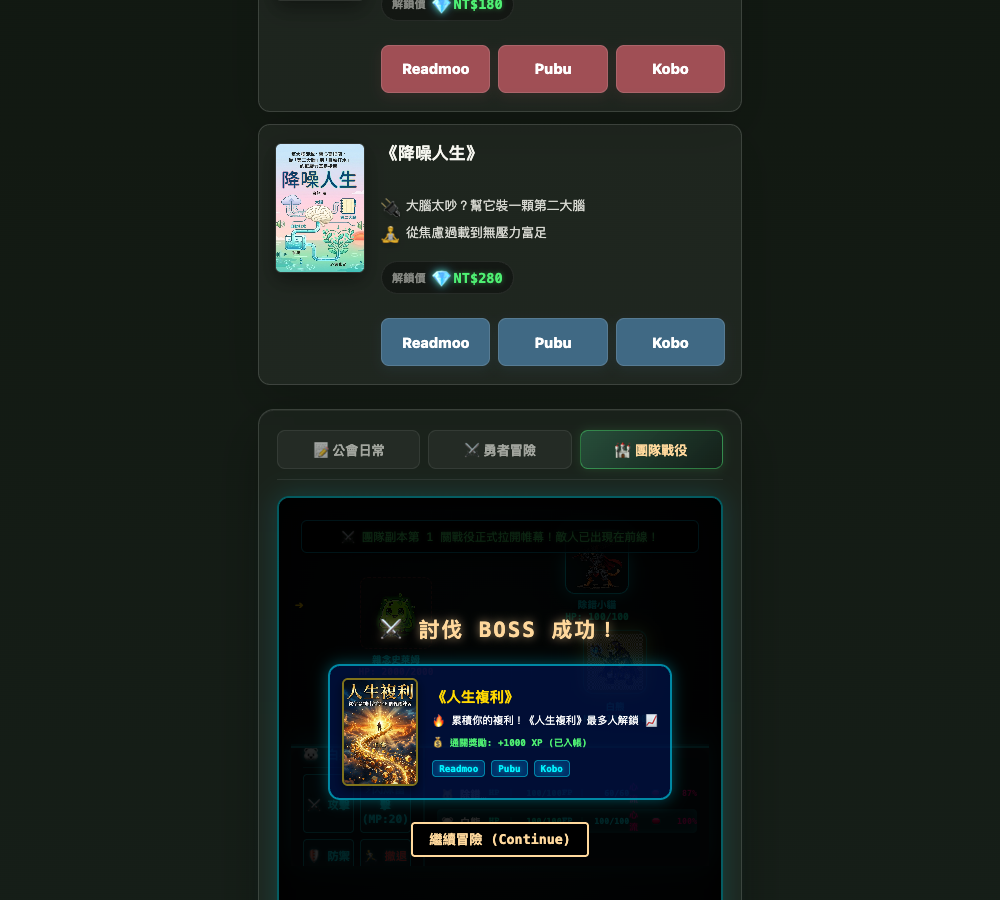
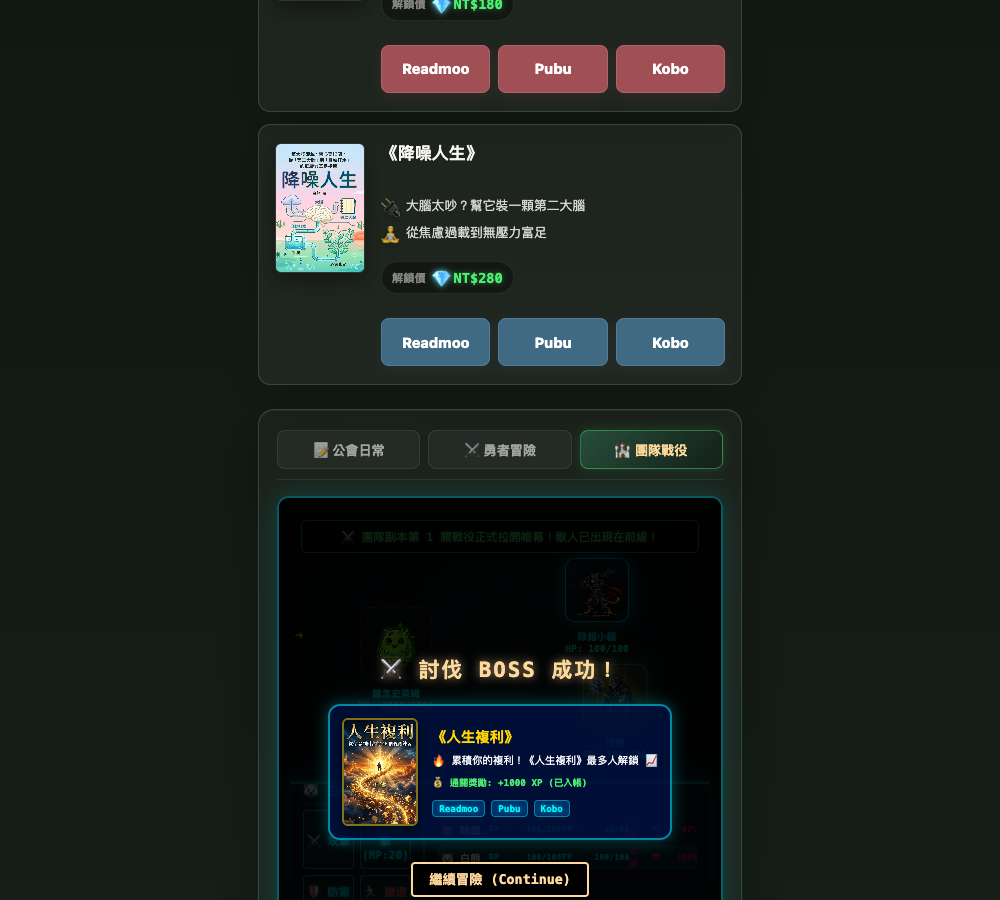
fix(flow-battle): make combat dashboard scrollable to prevent cutting off, cleanly transparent-ize bear and rabbit mage sprites, increase text spacing to prevent overlaps

Changed region(s): [[0.31, 0.6222, 0.682, 1.0]]

diff --git a/life-os-mvp/link.html b/life-os-mvp/link.html
@@ -1790,10 +1790,11 @@
       border: 2px solid rgba(0, 242, 254, 0.35);
       border-radius: 12px;
       box-shadow: 0 0 25px rgba(0, 242, 254, 0.15), inset 0 0 30px rgba(0, 0, 0, 0.95);
-      overflow: hidden;
       display: flex;
       flex-direction: column;
-      height: 480px;
+      height: auto;
+      min-height: 560px;
+      margin-bottom: 20px;
     }
 
     /* 關卡選擇樣式 */
@@ -1861,7 +1862,7 @@
       align-items: center;
       background: radial-gradient(circle at center, rgba(16, 38, 40, 0.45) 0%, rgba(5, 8, 10, 0.98) 100%), linear-gradient(rgba(0, 242, 254, 0.03) 1px, transparent 1px), linear-gradient(90deg, rgba(0, 242, 254, 0.03) 1px, transparent 1px);
       background-size: 100% 100%, 20px 20px, 20px 20px;
-      padding: 20px;
+      padding: 48px 20px 20px 20px;
       box-sizing: border-box;
       border-bottom: 2px solid rgba(0, 242, 254, 0.15);
       overflow: hidden;
@@ -2237,7 +2238,8 @@
     /* 手機窄螢幕自適應 */
     @media (max-width: 480px) {
       .team-raid-screen {
-        height: 420px;
+        height: auto;
+        min-height: 480px;
       }
       .team-raid-stage-select-grid {
         grid-template-columns: 1fr;
@@ -3572,7 +3574,7 @@
         mDiv.style.display = 'flex';
         mDiv.style.flexDirection = 'column'; // 垂直排列
         mDiv.style.alignItems = 'center'; // 水平置中
-        mDiv.style.gap = '4px';
+        mDiv.style.gap = '8px';
         mDiv.style.cursor = m.alive ? 'pointer' : 'default';
         
         const isSelected = selectedMonsterIndex === idx;
@@ -3618,7 +3620,7 @@
         hDiv.style.display = 'flex';
         hDiv.style.flexDirection = 'column'; // 垂直排列
         hDiv.style.alignItems = 'center'; // 置中
-        hDiv.style.gap = '4px';
+        hDiv.style.gap = '8px';
         
         let buffBadge = "";
         if (h.isShielded) buffBadge = `<span class="ff-buff-badge buff-shield">🛡護罩</span>`;

diff --git a/link.html b/link.html
@@ -1790,10 +1790,11 @@
       border: 2px solid rgba(0, 242, 254, 0.35);
       border-radius: 12px;
       box-shadow: 0 0 25px rgba(0, 242, 254, 0.15), inset 0 0 30px rgba(0, 0, 0, 0.95);
-      overflow: hidden;
       display: flex;
       flex-direction: column;
-      height: 480px;
+      height: auto;
+      min-height: 560px;
+      margin-bottom: 20px;
     }
 
     /* 關卡選擇樣式 */
@@ -1861,7 +1862,7 @@
       align-items: center;
       background: radial-gradient(circle at center, rgba(16, 38, 40, 0.45) 0%, rgba(5, 8, 10, 0.98) 100%), linear-gradient(rgba(0, 242, 254, 0.03) 1px, transparent 1px), linear-gradient(90deg, rgba(0, 242, 254, 0.03) 1px, transparent 1px);
       background-size: 100% 100%, 20px 20px, 20px 20px;
-      padding: 20px;
+      padding: 48px 20px 20px 20px;
       box-sizing: border-box;
       border-bottom: 2px solid rgba(0, 242, 254, 0.15);
       overflow: hidden;
@@ -2237,7 +2238,8 @@
     /* 手機窄螢幕自適應 */
     @media (max-width: 480px) {
       .team-raid-screen {
-        height: 420px;
+        height: auto;
+        min-height: 480px;
       }
       .team-raid-stage-select-grid {
         grid-template-columns: 1fr;
@@ -3572,7 +3574,7 @@
         mDiv.style.display = 'flex';
         mDiv.style.flexDirection = 'column'; // 垂直排列
         mDiv.style.alignItems = 'center'; // 水平置中
-        mDiv.style.gap = '4px';
+        mDiv.style.gap = '8px';
         mDiv.style.cursor = m.alive ? 'pointer' : 'default';
         
         const isSelected = selectedMonsterIndex === idx;
@@ -3618,7 +3620,7 @@
         hDiv.style.display = 'flex';
         hDiv.style.flexDirection = 'column'; // 垂直排列
         hDiv.style.alignItems = 'center'; // 置中
-        hDiv.style.gap = '4px';
+        hDiv.style.gap = '8px';
         
         let buffBadge = "";
         if (h.isShielded) buffBadge = `<span class="ff-buff-badge buff-shield">🛡護罩</span>`;

diff --git a/life-os-mvp/scratch/clean_sprites_pro.py b/life-os-mvp/scratch/clean_sprites_pro.py
@@ -1,0 +1,71 @@
+import os
+from PIL import Image
+
+def clean_sprite_pro(img_path, sprite_type):
+    if not os.path.exists(img_path):
+        print(f"File not found: {img_path}")
+        return
+        
+    print(f"🧹 Pro cleaning background for {sprite_type}: {img_path}")
+    img = Image.open(img_path).convert("RGBA")
+    datas = img.getdata()
+    
+    new_data = []
+    removed_count = 0
+    
+    for item in datas:
+        r, g, b, a = item[:4]
+        
+        # Keep existing transparency
+        if a < 10:
+            new_data.append((0, 0, 0, 0))
+            continue
+            
+        should_remove = False
+        
+        # 1. Bear Sage background grays: around 170-178
+        if sprite_type == 'bear':
+            is_bear_gray = (r >= 165 and r <= 182 and g >= 165 and g <= 182 and b >= 165 and b <= 182)
+            is_white = (r > 240 and g > 240 and b > 240)
+            if is_bear_gray or is_white:
+                should_remove = True
+                
+        # 2. Rabbit Mage background bluish-grays: around 196-218 (R <= G <= B style)
+        elif sprite_type == 'rabbit':
+            is_rabbit_gray = (r >= 190 and r <= 222 and g >= 195 and g <= 225 and b >= 200 and b <= 230 and abs(r - g) <= 12 and abs(g - b) <= 12)
+            is_white = (r > 240 and g > 240 and b > 240)
+            if is_rabbit_gray or is_white:
+                should_remove = True
+                
+        # 3. Other sprites: standard grays and whites
+        else:
+            is_gray = (abs(r - g) < 12 and abs(g - b) < 12 and r > 160 and r < 230)
+            is_white = (r > 235 and g > 235 and b > 235)
+            if is_gray or is_white:
+                should_remove = True
+                
+        if should_remove:
+            new_data.append((255, 255, 255, 0))
+            removed_count += 1
+        else:
+            new_data.append(item)
+            
+    img.putdata(new_data)
+    img.save(img_path, "PNG")
+    print(f"✅ Cleaned {removed_count} pixels successfully.")
+
+# Paths to clean
+sub_assets = "/Users/whitebebear/Desktop/life-os-mvp/life-os-mvp/assets"
+root_assets = "/Users/whitebebear/Desktop/life-os-mvp/assets"
+
+# Clean subfolder sprites
+clean_sprite_pro(os.path.join(sub_assets, "hero_bear_sage.png"), 'bear')
+clean_sprite_pro(os.path.join(sub_assets, "hero_rabbit_mage.png"), 'rabbit')
+clean_sprite_pro(os.path.join(sub_assets, "hero_cat_warrior.png"), 'cat')
+clean_sprite_pro(os.path.join(sub_assets, "hero_monkey_ninja.png"), 'monkey')
+
+# Clean root folder sprites
+clean_sprite_pro(os.path.join(root_assets, "hero_bear_sage.png"), 'bear')
+clean_sprite_pro(os.path.join(root_assets, "hero_rabbit_mage.png"), 'rabbit')
+clean_sprite_pro(os.path.join(root_assets, "hero_cat_warrior.png"), 'cat')
+clean_sprite_pro(os.path.join(root_assets, "hero_monkey_ninja.png"), 'monkey')

diff --git a/life-os-mvp/scratch/analyze_bg.py b/life-os-mvp/scratch/analyze_bg.py
@@ -1,0 +1,29 @@
+import os
+from PIL import Image
+from collections import Counter
+
+img_path = "/Users/whitebebear/Desktop/life-os-mvp/life-os-mvp/assets/hero_bear_sage.png"
+if os.path.exists(img_path):
+    img = Image.open(img_path).convert("RGBA")
+    width, height = img.size
+    print(f"Image dimensions: {width}x{height}")
+    
+    # Sample the corner pixels (which are typically background)
+    corners = [
+        img.getpixel((0, 0)),
+        img.getpixel((width - 1, 0)),
+        img.getpixel((0, height - 1)),
+        img.getpixel((width - 1, height - 1)),
+        img.getpixel((5, 5)),
+        img.getpixel((width - 6, 5))
+    ]
+    print("Corner pixels:", corners)
+    
+    # Get all pixels
+    pixels = list(img.getdata())
+    counter = Counter(pixels)
+    print("\nMost common colors (R, G, B, A) and count:")
+    for color, count in counter.most_common(15):
+        print(f"Color: {color}, Count: {count} ({count/(width*height)*100:.2f}%)")
+else:
+    print("File not found")

diff --git a/life-os-mvp/scratch/analyze_bg_rabbit.py b/life-os-mvp/scratch/analyze_bg_rabbit.py
@@ -1,0 +1,18 @@
+import os
+from PIL import Image
+from collections import Counter
+
+img_path = "/Users/whitebebear/Desktop/life-os-mvp/life-os-mvp/assets/hero_rabbit_mage.png"
+if os.path.exists(img_path):
+    img = Image.open(img_path).convert("RGBA")
+    width, height = img.size
+    print(f"Image dimensions: {width}x{height}")
+    
+    # Get all pixels
+    pixels = list(img.getdata())
+    counter = Counter(pixels)
+    print("\nMost common colors (R, G, B, A) and count:")
+    for color, count in counter.most_common(15):
+        print(f"Color: {color}, Count: {count} ({count/(width*height)*100:.2f}%)")
+else:
+    print("File not found")
